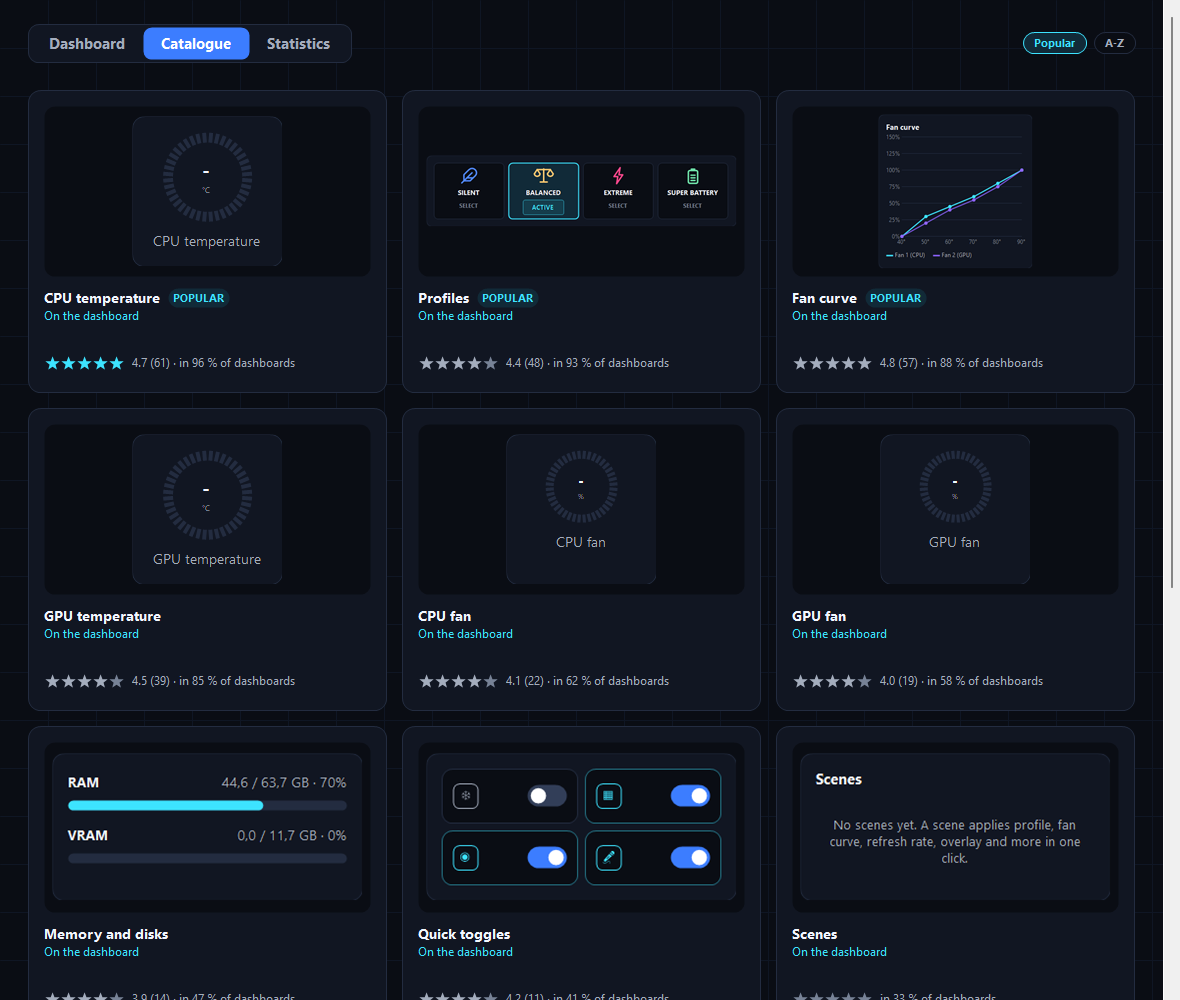
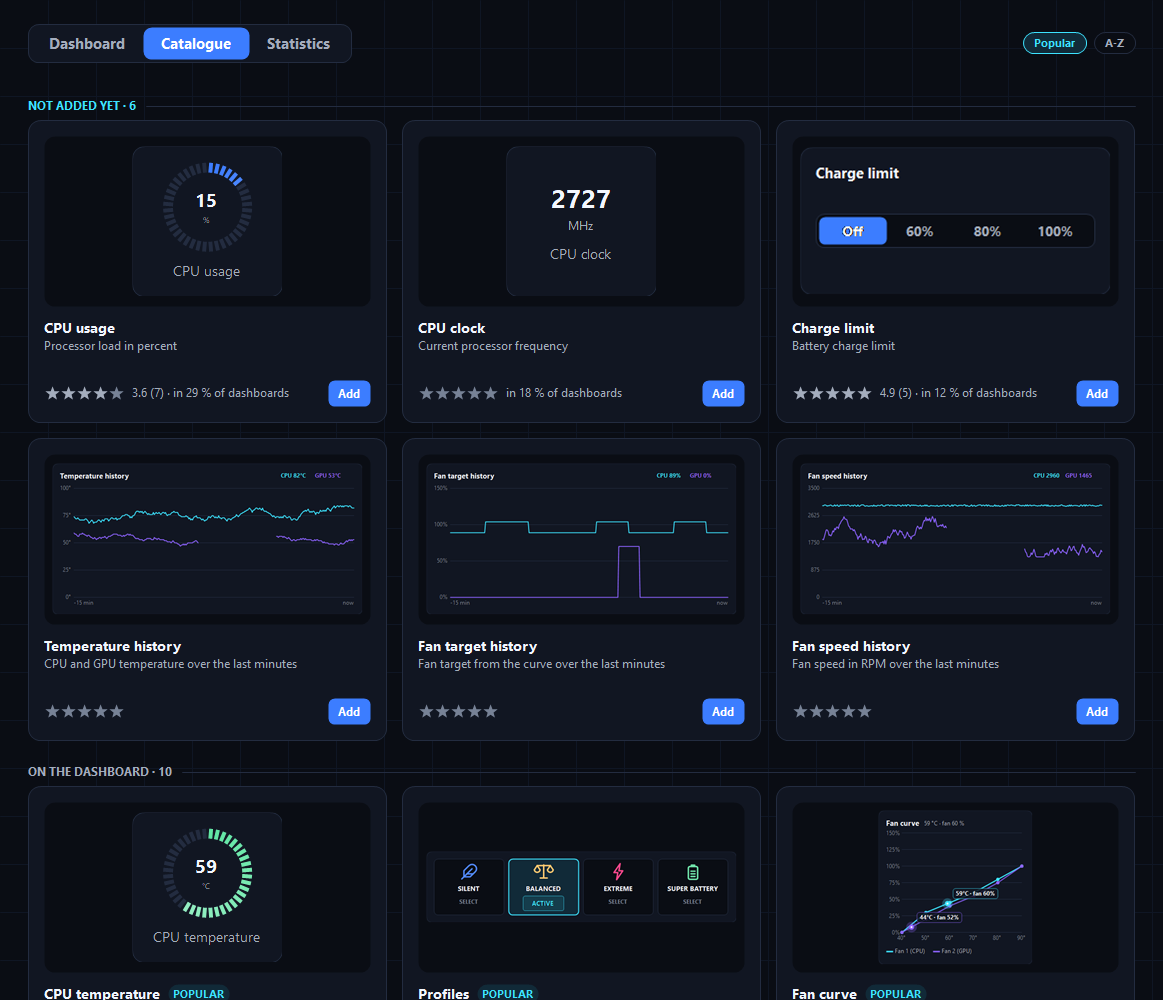
Docs for 1.45: widget settings, copies, looks, history widgets, layouts and files, the catalogue
- CHANGELOG [Unreleased]: Added and Changed for the Dashboard's second stage.
- README: the Dashboard bullet, the comparison row, six new screenshots.
- TECHNICAL: §88 (settings in the layout, the settings card, the table of widgets and keys, copies, bounds, layouts and files, history widgets, the catalogue's groups, memory, refresh and columns, a settings file that cannot be written, how it is tested); §86 points at it.
- RENDERING §13: the band of the static layer, the canvas's own frame, the reading at the cursor, the new preview modes.
- FAQ: three entries (settings and copies, layouts and files, history widgets).
- announcements.json: the 1.45.0 entry in 15 languages, for versions up to 1.44.0.
- docs/images: thirteen pictures from the preview tool, in English.

diff --git a/docs/TECHNICAL.md b/docs/TECHNICAL.md
@@ -4470,11 +4470,11 @@ curve page's In action view with the diagnostics open (`MainForm.ShowFanCurveDia
 `FanCurvePage.ShowDiagnostics`). The user-facing write-up with pictures is
 `docs/TWO-FAN-TABLES.md`.
 
-## 86. The Dashboard: one drawn surface, widgets and the layout file (v1.44)
+## 86. The Dashboard: one drawn surface, widgets and the layout file (v1.44; 1.45 adds §88)
 
 The Dashboard tab is the user's own screen: a grid of widgets (profiles, temperature and fan rings,
-CPU usage and clock, the fan curve, scenes, quick toggles, memory and disks, the charge limit, and
-the Community tile) that the user places, resizes and reorders. It follows the rule from §73 and
+CPU usage and clock, the fan curve, scenes, quick toggles, memory and disks, the charge limit, three
+history charts since 1.45, and the Community tile) that the user places, resizes and reorders. It follows the rule from §73 and
 §74: the whole tab is **one control** (`UI/Dash/DashCanvas.cs`), everything on it is painted, and
 clicks are resolved against a list of zones. There are no child controls, so a layout of twelve
 widgets costs one window, not a few hundred.
@@ -4492,19 +4492,21 @@ type can also hide itself from the catalogue (`Listed`): the Community tile is l
 statistics are on.
 
 **The layout file** is the `Dashboard` list in settings.json, one entry per widget: `Type`, `W`
-and `H` in cells, in display order, plus `DashboardVersion` (0 means a file from before the tab;
+and `H` in cells (and since 1.45 the widget's own settings, `Opt`, §88), in display order, plus `DashboardVersion` (0 means a file from before the tab;
 the default layout is written in its place). Positions are never stored: `DashLayout.Place` lays
 the items out first-fit, row by row, for the column count of the moment, so the same file reads
 correctly on a narrow window and a wide one. The column count comes from the width (cells of at
-least 150 px, two to six columns) unless the user chose a density in edit mode: `DashColumns` 4,
-5, 6 or 8 applies while a cell keeps 110 px, and a narrower window still gives fewer columns. With
+least 150 px, two to six columns) unless a density is set in edit mode: `DashColumns` 4,
+5, 6 or 8 applies while a cell keeps 110 px, and a narrower window still gives fewer columns (a
+new installation of 1.45 starts at 8, an existing one keeps its choice, §88). With
 the catalogue panel open the grid gives up the panel's width.
 
 **Edit mode** (the header button) frames every widget: drag by the card to reorder (the list is
 reordered in place and saved on drop), the size pill cycles through the type's sizes, the cross
 removes, the panel on the right adds, *Restore default* asks first, and the *Columns* row picks
-the density. Outside edit mode a tile shows a ⋯ while the cursor is on it, with a small menu:
-details and rating, the next size, remove, edit the layout. The header also switches between
+the density (1.45 adds *Layouts…* and the refresh interval, §88). Outside edit mode a tile shows a
+⋯ while the cursor is on it, with a small menu: details and rating, the next size, remove, edit
+the layout, and since 1.45 the widget's settings and a duplicate. The header also switches between
 three views: **Dashboard**, **Catalogue** (every widget as a card with its picture, description,
 stars and an Add button; sorted Popular or A-Z when a summary is in) and **Statistics** (§87).
 
@@ -4517,14 +4519,15 @@ again clears a rating. With the statistics off a star opens a card that explains
 goes and offers to turn them on.
 
 **The tick** belongs to the page (`UI/DashboardPage.cs`): one shared sample every 1.5 s (the
-Status interval; one EC read per tick, the two pages are never visible at once), read on a worker
+Status interval; 3 or 5 s can be chosen since 1.45; one EC read per tick, the two pages are never
+visible at once), read on a worker
 and completed on the window thread; no tick while the page is hidden, and the static buffer is
 freed then. How the two layers are painted and measured is in RENDERING.md §13. The Dashboard is the
 first tab and the **start tab**; Settings → General makes Scenarios the start tab as before.
 
 The preview tool draws the tab without hardware (`DOC/tools/render-harness`, modes `page
-Dashboard`, `-14` for the edit bench, `DASHLAYOUT=`, `DASHDEMO=1`, `STATS=1`), and
-`tools/dpi-check.py` holds it to the scaling rules of §84.
+Dashboard`, `-14` for the edit bench, `-15` to `-17` since 1.45, `DASHLAYOUT=`, `DASHOPT<n>=`,
+`DASHDEMO=1`, `STATS=1`), and `tools/dpi-check.py` holds it to the scaling rules of §84.
 
 ## 87. Anonymous weekly statistics (v1.44)
 
@@ -4614,3 +4617,126 @@ the step.
 
 The server (a small PHP service and the owner's panel) lives in two private repositories; its
 public contract is this section: the report fields, the proof of work, and the signed summary.
+
+## 88. The Dashboard in 1.45: widget settings, copies, layouts and files, history widgets
+
+1.45 builds on §86 without changing its rules: one control, everything painted, a widget never
+reads hardware and writes only through the actions of `MainDeps`. What is new stands on one
+change: **a widget's settings belong to its place in the layout, not to its type.**
+
+**Settings in the layout.** A layout item (`Core/DashItem.cs`) has an optional map `Opt` next to
+`Type`, `W` and `H`: a key and a short text, a whole number, yes/no or a list of short texts. An
+item without the map looks exactly as in 1.44, and a value equal to its default is not stored.
+`Core/DashOptions.cs` is the only reader and it never trusts a value: a value of the wrong kind
+reads as the default, a number is clamped to its range, a text goes through one rule
+(`DashOptions.Clean`: no control characters, no halves of surrogate pairs, no characters that
+change the direction of text or carry no text at all, composed to NFC, cut at 64 UTF-16 units).
+The same rule runs where a text is typed, stored, written to a file and read back, so what is
+stored can always be written and read the same. A key this version does not know is carried
+along untouched. One widget keeps at most 24 settings and 2048 characters, a list at most 64
+entries; settings read from `settings.json` are cleaned value by value (`DashOptions.Sanitized`:
+what cannot be read or does not fit goes, the rest stays). Version 1.44 does not know `Opt` and
+carries it in the item's extension data, so going back to the older exe keeps the settings.
+
+**The settings card.** A widget declares what can be set on it as a list of `DashOptionDef`
+(`UI/Dash/DashOptionDef.cs`): a colour (the default or one of a palette of twelve, stored by name,
+so it follows the light and the dark theme), one of a few, a text, a number with a range, a
+switch, a list to tick, and a colour that belongs to another field (a label's colour, a
+threshold's colour) as a small button with the same palette in a drop-down. `Forms/WidgetSettingsCard.cs`
+draws the card from that list, so a widget type needs no card of its own. The picture on the card
+is the widget itself, painted by the same code as on the Dashboard with the settings being
+edited; the Dashboard gets them on Save, in one repaint (a widget instance keeps its settings
+for life, so changed settings are a new instance). *Defaults* removes the card's settings. An
+empty text or number field means the default, shown in grey. The card never stores something
+other than it shows: a pick of a list that does not fit what one widget keeps (by the number of
+entries or by the room of its settings) stays in the card, which says so and neither saves nor
+exports until it fits (`Storable`, `SettleOver`). A list with more lines than the screen has
+room for goes on pages; a card still taller than the working area is drawn smaller
+(`GhostCardForm`, down to 0.55 of its scale) and is kept inside the screen when its size changes.
+
+| Widget | Settings (keys in `Opt`) | Sizes |
+|---|---|---|
+| CPU / GPU temperature | `color`, `dial` (`seg`, `arc`), `label`, `labelc`, two thresholds `warn1` / `warn2` with `warn1c` / `warn2c` (70 °C amber, 85 °C red unless set), `nowarn`, the scale `min` / `max` | 1x1, 2x2 |
+| CPU / GPU fan | `color`, `dial`, `label`, `labelc`, the RPM line `rpm` and `rpmc` | 1x1, 2x2 |
+| CPU usage | `color`, `dial`, `label`, `labelc`, one threshold `warn1` / `warn1c` (90 % red unless set), `nowarn` | 1x1, 2x2 |
+| CPU clock | `unit` (`mhz`, `ghz`), `color`, `label`, `labelc` | 1x1, 2x1 |
+| Profiles | `show` (which profiles) | one profile 1x1, 2x1; two 2x1, 2x2; more 4x1, 2x2 |
+| Quick toggles | `show`, `color` | 2x1, 4x1; one switch 1x1, 2x1 |
+| Scenes | `show` (scene ids), `view` (`list`, `tiles`, `buttons`), `label`, `labelc` | 2x1, 2x2, 1x1; tiles and buttons also 4x1 |
+| Memory and disks | `show`, `color` | 2x1, 2x2; one row 1x1, 2x1 |
+| Fan curve | `cpu`, `gpu`, `cpuc`, `gpuc`, `trail`, `trailc`, `label`, `labelc` | 2x2, 4x2 |
+| Charge limit | `view` (`seg`, `bat`, `small`), `color`, `barc`, `limc`, `label`, `labelc` | 2x1; `small` 1x1 |
+| Temperature / fan target / fan speed history | `range` (`5`, `15`, `30`, `60` minutes), `cpu`, `gpu`, `cpuc`, `gpuc`, `label`, `labelc` | 4x2, 2x2 |
+| Community | none | 4x1, 4x2 |
+
+**Sizes follow settings.** The sizes a widget allows can depend on its settings (Profiles with
+one profile fits a cell, with four it needs four). When settings change so that the current size
+is no longer allowed, the widget takes the nearest allowed one (`DashItem.Fit`), also when a
+layout is read.
+
+**Copies.** A type may stand any number of times. The canvas makes one instance per layout item,
+so copies share no state; the tile menu has *Duplicate* (the same settings and size, right after
+the original) and the catalogue adds one more of a type that is already there. The fan curve's
+tables are read once per page for all its copies. The weekly report names a type once (§87).
+
+**Bounds.** They guard against a damaged or hostile file, they are not limits a user meets: at
+most 200 widgets, and at most 480 grid cells covered by all widgets together, counted on the
+sizes the widgets really take (`DashRegistry.FittedCells`). A layout from a file over either
+bound is refused; a hand-edited `settings.json` is trimmed from the end; adding, duplicating,
+enlarging and a change of settings that needs a larger size are refused on a full Dashboard.
+
+**Layouts and files.** *Layouts…* in edit mode (`Forms/DashLayoutsCard.cs`) keeps the layout of
+the moment under a name (`DashboardSaved` in settings.json, up to twelve), loads one, deletes
+one, writes the layout to a file and reads one; the layout a load replaced stays for one *Undo*.
+A widget's settings card writes that widget's style to a file and loads one into the card, for a
+widget of the same type. Both use one format (`Core/DashFile.cs`), described for users and for
+anyone who writes such files in [DASHBOARD-FILES.md](DASHBOARD-FILES.md): data only, read whole
+or not at all, every item rebuilt from checked values, nothing in it a path, a command or code.
+A file is written through a temporary file next to the target and a swap. Export names are the
+same in every language (`ghostdeck-dashboard_2026-11-11_14-05-09.json`,
+`ghostdeck-widget-cpu-temp_...json`).
+
+**History widgets.** `UI/Dash/Widgets/HistoryWidget.cs` is one class in three kinds
+(`core.histTemps`, `core.histFans`, `core.histRpm`): the charts of Status → History as widgets.
+They draw from `HwHistory`, the in-memory ring the tray poll fills every three seconds for as
+long as the app runs (sixty minutes, never on disk), so a widget reads no hardware and adds no
+read to any tick. `HwHistory.Version` goes up under the buffer's lock together with the sample,
+and a widget takes the samples and their version from one look (`Window(span, out version)`),
+so it repaints exactly when there is a sample it has not drawn. A reading that is missing (a
+sleeping graphics card), a pause in the samples and time running back are gaps in the line; a
+sample later than now is left out. With the cursor over the plot the widget shows the nearest
+sample: a dashed line, a dot on each line and a bubble with the time and the values. That is a
+part of the widget contract new in 1.45: `IDashWidget.FollowsPointer` and `PaintPointer`; the
+canvas repaints such a widget as the cursor moves in it and calls `PaintPointer` after the live
+layer, never in edit mode.
+
+**The catalogue's two groups.** The side panel and the Catalogue view list the types that are not
+on the Dashboard first, under a caption with their number, then the ones already there (a badge
+with a tick and the number of copies, an outlined Add button). The groups are settled when the
+catalogue opens, when the sort changes and when a whole layout is replaced, and they do not
+change on Add: a row that jumped to the other group would put another type under the cursor.
+
+**Memory and painting.** In 1.44 the static layer was a picture of the whole canvas, and the
+canvas is as tall as its content. Since 1.45 the canvas keeps pictures sized by the window, not
+by the layout: the static layer for a band around the visible part, and one frame it composes
+every paint in (RENDERING.md §13). A mouse message carries 16 bits of position, so on a canvas
+taller than 32 767 px the position is restored from the message and the place of the visible part
+(`DashCanvas.Unwrap`).
+
+**Refresh and columns.** `DashRefreshMs` is 1500, 3000 or 5000 (edit mode), the interval of the
+page's tick. `DashColumns` is 8 on a new installation; a settings file that states the field
+keeps what it says (0 = automatic), and a full copy of the settings that does not state it (from
+before 1.44) leaves the choice alone when imported (`DashColumnsStated`).
+
+**A settings file that cannot be written.** `AppSettings.Save` raises `SaveFailed` with the
+system's reason once per run of failures, counted from the moment a listener heard it: the app
+saves while it starts, before it can show a card, and such a failure is kept and announced when
+the tray asks (`TellPendingSaveFailure`). The tray shows a card; an announcement that arrives
+after a save worked is dropped (`SaveFailing`), and nothing is shown once the app is closing.
+
+**How it is tested.** Outside the app: `DOC/tools/dashfile-test` (the file reader and the
+settings against hostile and broken input, 592 checks and 300 000 randomly damaged files, none of
+which may throw or break a limit). On the real canvas, in the preview tool: `-15` (every settings
+card), `-16` (layouts, files, bounds, cards on low screens, the history widgets, the catalogue),
+`-17` (the band, the frame and the mouse on a tall canvas); the default layout is compared pixel
+for pixel with 1.44.

diff --git a/README.md b/README.md
@@ -32,7 +32,7 @@ Built because **MSI Center 2.0 removed the _Silent_ profile**. This app talks to
 ## Features
 
 - 🖥 Tray icon (color = active profile) with a profile menu, plus a **tabbed main window** (Dashboard / Scenarios / Status / Fan curve / Models / Report / Updates) with a **light / dark theme**; Settings is organized into **icon sub-tabs** (a Start page with tiles + General / Power / Automation / Gaming / Hotkeys / System) and reopens on the sub-tab you used last (or always on Start, your choice). On a narrow window the sub-tab strip shrinks to icons instead of pushing a scrollbar, and clicking the tab you are already on takes you back to its first page
-- 🧩 **Dashboard** - your own screen built from widgets on a grid: profile tiles, CPU and GPU temperature rings, fan rings with RPM, CPU usage and clock, the **fan curve with its live operating point and the last minutes as a trail**, scenes, quick toggles with the Scenarios icons, memory and disks, the charge limit, and a Community tile. **Edit layout** lets you drag, resize and remove widgets, add from a panel and pick the grid density (Auto, 4, 5, 6 or 8 columns); a ⋯ on every tile opens its details, size and removal. The layout is stored as order and sizes only, so it reflows on any window width, and a widget a newer version added stays in place as a grey card on an older one. The tab is **one painted surface** with no child windows and a 1.5 s tick that repaints only what moved, so a dozen widgets cost what one page costs. The header switches between **Dashboard**, a **Catalogue** of every widget (picture, description, rating, Add) and **Statistics**. The Dashboard is the first tab and the one GhostDeck opens on; Settings → General brings Scenarios back as the start tab
+- 🧩 **Dashboard** - your own screen built from widgets on a grid: profile tiles, CPU and GPU temperature rings, fan rings with RPM, CPU usage and clock, the **fan curve with its live operating point and the last minutes as a trail**, scenes, quick toggles with the Scenarios icons, memory and disks, the charge limit, **history charts** of temperatures, fan target and fan speed over the last 5 to 60 minutes (the cursor shows the moment and the values), and a Community tile. **Every widget has its own settings** (⋯ → *Settings…*, with a live picture): colours from a palette of twelve, a label, a segmented or continuous dial, the scale and the warning thresholds of a ring, which lines a chart draws, which profiles, switches, scenes or disks a widget shows, and a choice of looks for Scenes (list, tiles, buttons) and the Charge limit (segments, battery bar, a single cell). **The same widget can stand any number of times**, each copy with its own settings, so a Silent button, a large CPU dial in orange and a small one in teal are three tiles of your making. **Edit layout** lets you drag, resize and remove widgets, add from a panel that lists what you have not added yet first, pick the grid density (Auto, 4, 5, 6 or 8 columns) and how often the tab refreshes (1.5, 3 or 5 s); **Layouts…** keeps layouts under names and writes a layout, or one widget's style, to a file you can share: data only, checked whole before anything changes ([DASHBOARD-FILES.md](docs/DASHBOARD-FILES.md)). A ⋯ on every tile opens its settings, details, size, a duplicate and removal. The layout is stored as order and sizes only, so it reflows on any window width, and a widget a newer version added stays in place as a grey card on an older one. The tab is **one painted surface** with no child windows and a 1.5 s tick that repaints only what moved, so a dozen widgets cost what one page costs. The header switches between **Dashboard**, a **Catalogue** of every widget (picture, description, rating, Add) and **Statistics**. The Dashboard is the first tab and the one GhostDeck opens on; Settings → General brings Scenarios back as the start tab
 - 📈 **Community statistics** *(opt-in, anonymous)* - see what other GhostDeck users do: which widgets are popular and how they are rated (in the catalogue and on each widget's card), a **Statistics view** with active installs week by week, a **dot map of the world**, languages and laptop models, and a Community tile on the Dashboard. In return the app sends **one small report a week**: app version, language, board family, Windows version, screen scale, the features you use, your Dashboard widgets and ratings, profile switches and the time share per profile, CPU and GPU model - **no identifier, no address, no names, no file or game names**. A card asks once and shows the exact report before you decide; the switch and *Show what will be sent* are in Settings → System. The results come back as a **signed file** the app verifies before showing a number; countries with only a few installs are never shown ([TECHNICAL.md §87](docs/TECHNICAL.md), [FAQ](docs/FAQ.md))
 - ⚡ **Apex switch** *(boards whose entry records a fourth performance value)* - the state above Extreme's normal turbo, the one some MSI Center versions bury as a switch inside their top scenario: a toggle on the Extreme tile makes Extreme write the Apex value instead, with an APEX badge on the tile and in the OSD while it is on. Whether it buys real performance is measured, not promised: on a Raider 16 Max HX the Power test clocked **+34 % more delivered work than Balanced** with Apex, against +16 % for plain Extreme - on other boards it may only spin the fans faster, and the Power test measures Apex as its own step so you can check yours. A one-time consent card explains the noise and heat cost, the switch is remembered per model, and a **panic reset always returns to plain Balanced**
 - 🪟 **Windows power: CPU turbo boost + power mode** - two settings Windows keeps to itself, brought next to the profiles they belong with (Settings → Power). The **CPU turbo boost** switch edits the normally hidden *Processor performance boost mode* of the active power plan - a cooler, quieter machine under load at the cost of peak speed; the previous plugged-in and battery values are saved per plan, shown in the card and come back with one click. **Two lists pick the exact turbo mode** Windows offers (Enabled, Aggressive, Efficient Enabled and the rest), plugged in and on battery separately, each with a plain description of what it does, and the **By profile** table can set them per GhostDeck profile ([guide](docs/WINDOWS-POWER.md)). The **Windows power mode** (best efficiency / balanced / best performance) is set directly or left on **Auto: profile**, which follows the GhostDeck profile through a mapping you can edit. **Restore Windows settings** puts back everything the app changed and lists exactly what. Documented Windows power APIs only, no EC involved - so it works on **any** laptop, including ones whose EC the app cannot reach; CLI `--turbo on|off|status`
@@ -112,7 +112,7 @@ GhostDeck is a small, focused tool - it deliberately does one thing (power/fan p
 | Two-table test (which fan-curve table the firmware follows) | ❌ | ✅ *(six flat pairs into both tables, verdict per fan)* |
 | Global **rebindable** hotkeys | Limited² | ✅ |
 | Scenes (one-click multi-setting macros) | ❌ | ✅ *(profile + curve + Hz + overlay + more)* |
-| Dashboard of widgets you arrange yourself | ✅ *(fixed layout)* | ✅ *(drag, resize, add from a catalogue, grid density; one painted surface)* |
+| Dashboard of widgets you arrange yourself | ✅ *(fixed layout)* | ✅ *(drag, resize, add from a catalogue, grid density; settings, colours and looks per widget, copies, history charts, named layouts and files to share; one painted surface)* |
 | What other users run (popular widgets, ratings, a world map) | ❌ | ✅ *(opt-in, anonymous, signed results)* |
 | Tray-icon wheel / middle-click actions | ❌ | ✅ *(configurable)* |
 | CPU / GPU temperature in the notification area | ❌ | ✅ *(opt-in, own thresholds + colours)* |
@@ -203,11 +203,17 @@ External monitors and HDR were not tested (the message carries no monitor parame
 | ![Scenes](docs/images/scenes.png) | ![Schedule rule](docs/images/schedule_rule.png) |
 | **Scenes** - every setting the scene touches as a chip; the profile pill wears that profile's color | **Scene schedule** - a rule is a scene + weekdays + a time window (overnight ranges fine) |
 | ![Dashboard](docs/images/dashboard.png) | ![Dashboard edit mode](docs/images/dashboard_edit.png) |
-| **Dashboard** - your own grid of widgets: profiles, rings, the live fan curve, scenes, toggles, memory, the Community tile | **Edit layout** - drag, resize, remove, add from the panel, pick the grid density |
+| **Dashboard** - your own grid of widgets: profiles, rings, the live fan curve, scenes, toggles, memory, the Community tile | **Edit layout** - drag, resize, remove, pick the grid density and the refresh interval, open the layouts and the *Add widget* panel |
 | ![Catalogue](docs/images/dashboard_catalog.png) | ![Statistics](docs/images/dashboard_stats.png) |
 | **Catalogue** - every widget with its picture, description, rating and share of dashboards (sample numbers) | **Statistics** - what the community uses: installs week by week, a dot map of the world, languages and laptop models (sample numbers) |
 | ![Widget card](docs/images/dashboard_widget_card.png) | ![Statistics consent](docs/images/stats_consent.png) |
 | **Widget card** - the widget painted live, your stars and the community's numbers; two clicks from any tile | **Anonymous statistics** - the consent card: what is sent, what never is, what comes back; the exact report is one click away |
+| ![A Dashboard of your own](docs/images/dashboard_custom.png) | ![Widget settings](docs/images/dashboard_widget_settings.png) |
+| **A Dashboard of your own** - copies of a widget with different settings: two profiles in one tile and one alone, dials in your colours, the charge limit as a battery bar and as a single cell, one switch as a tile | **Widget settings** - the picture follows every change; colours, the dial, the label, the scale and the warning thresholds of a temperature ring; a style can be written to a file and loaded |
+| ![History widgets](docs/images/dashboard_history.png) | ![The reading at the cursor](docs/images/dashboard_history_pointer.png) |
+| **History widgets** - temperatures, fan target and fan speed over the last 5 to 60 minutes, wide or square, your lines and colours | **The reading at the cursor** - the moment and the values, as on the Status charts; a sleeping graphics card is a gap in the line |
+| ![Scenes in three looks](docs/images/dashboard_scenes_looks.png) | ![Layouts](docs/images/dashboard_layouts.png) |
+| **Scenes in three looks** - the list, tiles and buttons, in any size, with all scenes or the ones you pick | **Layouts** - keep the Dashboard under a name, load it back, write it to a file or read one; one Undo after a load |
 | ![Scene editor](docs/images/scene_editor.png) | ![Settings General](docs/images/settings_general.png) |
 | **Scene editor** - switch on only the settings a scene should apply (brightness, HDR, the crosshair with one of your presets, an MSI True Color profile, Windows-key lock and touchpad included); everything else stays as it is | **Settings → General** - pick which bricks and sections the Scenarios tab shows; the gear on Scenarios jumps here and highlights this card |
 | ![Status](docs/images/status.png) | ![Settings](docs/images/settings.png) |

diff --git a/CHANGELOG.md b/CHANGELOG.md
@@ -4,7 +4,57 @@ All notable changes to this project are documented here.
 Format loosely based on [Keep a Changelog](https://keepachangelog.com/).
 
 ## [Unreleased]
+### Added
+- **Dashboard: every widget has its own settings.** *Settings…* in a tile's ⋯ menu opens a card with the widget's
+  picture, which follows every change at once; the Dashboard changes on Save. Rings: the dial's colour (twelve colours
+  or the default), a segmented or a continuous dial, a label and its colour, the scale of the temperature rings, the
+  thresholds at which a temperature or the CPU usage changes colour and the colour of each, the RPM line of the fan
+  rings. CPU clock: MHz or GHz. Fan curve: which lines, their colours, the trail of the last minutes and its colour.
+  Memory and disks: which rows, the colour of the bars. Every widget with a title can carry your own label. *Defaults*
+  puts a widget back as it comes ([TECHNICAL.md §88](docs/TECHNICAL.md)).
+- **Dashboard: the same widget as many times as you like.** *Duplicate* in the ⋯ menu, or *Add* in the catalogue for a
+  type that is already there; every copy has its own settings and size. Two CPU temperatures, one as a small dial and
+  one large in another colour, are two tiles like any other.
+- **Dashboard: widgets that show only what you pick.** Profiles, Quick toggles, Scenes and Memory and disks have a
+  *Show* list. A widget with one profile or one switch fits a single cell, so a Silent button, a Balanced button and a
+  Fan Boost switch can each be a tile of their own.
+- **Dashboard: three looks for Scenes and for the Charge limit.** Scenes: the list, tiles (a large icon, the name, the
+  profile as a coloured line) or compact buttons, and a wide 4x1 size. Charge limit: the segments, a battery bar with
+  the charge of the moment and a mark at the limit, or a single cell that steps to the next value on a click.
+- **Dashboard: three history widgets.** *Temperature history*, *Fan target history* and *Fan speed history* are the
+  charts of Status → History as widgets: the last 5, 15, 30 or 60 minutes, a line for the CPU and one for the GPU, each
+  with its colour, in a wide (4x2) or a square (2x2) size. The cursor over a chart shows the moment and the values, as
+  on the Status tab. They draw from the history GhostDeck already keeps in memory, so they add no hardware read; the
+  history starts empty at every launch and is never written to disk.
+- **Dashboard: layouts with names, and files to share.** *Layouts…* in edit mode keeps the layout of the moment under
+  a name (up to twelve), loads one from the list, writes the layout to a file and reads one; *Undo the load* brings back
+  the layout a load replaced. A widget's settings card writes that widget's style to a file and loads one. A file holds data only (widget
+  types, sizes, settings); it is checked whole before anything changes, and a file that fails any check changes nothing
+  ([DASHBOARD-FILES.md](docs/DASHBOARD-FILES.md)).
+- **Dashboard: how often it refreshes.** 1.5, 3 or 5 seconds, in edit mode. Slower means fewer reads of the controller
+  while the tab is open (40, 20 or 12 a minute).
+
 ### Changed
+- **Dashboard catalogue: what is not on the Dashboard comes first.** The *Add widget* panel and the Catalogue view
+  list the widgets you have not added yet under their own caption, then the ones already there. A widget on the
+  Dashboard carries a badge with a tick and the number of copies, and its *Add* button is an outline; the filled
+  buttons are the ones still to add. The frame of a row under the cursor stands clear of its texts.
+- **Dashboard: 8 columns on a new installation.** The *Columns* switch in edit mode starts at 8. An existing
+  installation keeps what it has, Auto included.
+- **Dashboard: the CPU usage ring turns red from 90 %.** Like the temperature rings change colour as they heat up. The
+  threshold and its colour are in the widget's settings, and *No warnings* switches it off.
+- **Dashboard: long scene names.** A name too long for one line takes a second, whole line in every look of the Scenes
+  widget; one that needs more than two ends with three dots. In the list the second line used to be cut by the row
+  below.
+- **Dashboard: memory does not grow with the layout.** The tab keeps pictures only of the part the window shows, so a
+  Dashboard of two hundred widgets costs the same memory as one that fits the screen.
+- **A settings file that cannot be written is said.** When Windows refuses to write `settings.json` (a full disk, a
+  locked file), a card says so with the system's reason, once until a save works again. Before, a change made in that
+  state worked until the app closed and was gone at the next start, with a line in the log as the only trace.
+- **A card taller than the screen is drawn smaller.** On a low screen at a large scale a card with many fields no
+  longer reaches under the taskbar; long lists inside a card go on pages.
+- **Statistics: a widget type counts once.** With copies allowed, the weekly report names each widget type once,
+  whatever the number of copies, and carries none of a widget's settings ([TECHNICAL.md §87](docs/TECHNICAL.md)).
 - **Statistics view: a Refresh button and fresher numbers.** The view now asks for the signed summary when its copy is ten
   minutes old (it was an hour), and a **Refresh** button in the header asks at once. Next to it the view says when the
   numbers at hand were generated and when you last asked.

diff --git a/docs/RENDERING.md b/docs/RENDERING.md
@@ -677,11 +677,18 @@ Comments are never checked, and the long-dash rule has no exceptions. The check 
 proof: a fixed size passed through a variable is not caught, so the preview at 192 stays part of
 the review.
 
-## 13. The Dashboard canvas: a static layer, a live layer and one tick (v1.44)
+## 13. The Dashboard canvas: a static layer, a live layer and one tick (v1.44, the buffers of v1.45)
 
 The Dashboard tab (TECHNICAL.md §86) is one control, `DashCanvas`, painted in two layers.
 
-**The static layer** is a `BufferedGraphics` the size of the control, rendered again only when its
+**The static layer** is a `BufferedGraphics` for a **band** of the canvas since 1.45: what is on
+screen and half of that again above and below, at most twice the visible height (in 1.44 it was
+the size of the whole control, and the control is as tall as its content, so the picture grew with
+the layout: two hundred 2x2 widgets were about 300 MB). Scrolling out of the band renders the next
+one, with only the widgets that stand in it; a layout no taller than a screen and a half has one
+band and never renders on scroll. GDI+ drawing is moved into the band with a transform and GDI
+text with the viewport origin, so a widget paints at its canvas coordinates wherever the band is.
+The layer is rendered again only when its
 key changes: the size, the DPI, the theme, the background-grid setting, the language, the layout,
 edit mode, the view, and (with the catalogue open) whether the statistics are on and which
 summary is in. It holds the background, the header, every widget's `PaintStatic` (the card, a
@@ -693,10 +700,18 @@ resolved against that list, so there is no second geometry to keep in step.
 every widget whose rectangle meets the clip, the edit-mode frames and pills, the hover feedback
 and the ⋯ of the tile under the cursor. A tick (the page's 1.5 s timer, one sample read on a
 worker) asks every widget `LiveChanged`; only the rectangles that answer yes are invalidated, so
-an idle machine repaints nothing and a ring whose value moved repaints its own card. The control
-runs with `OptimizedDoubleBuffer`, so the blit and the live layer are composed off screen and
-presented once; a tick never shows the dials without their needles. When the page is hidden the
-timer stops and the static buffer is freed.
+an idle machine repaints nothing and a ring whose value moved repaints its own card. The blit and
+the live layer are composed off screen and presented once, so a tick never shows the dials without
+their needles. Since 1.45 the canvas does that in a frame of its own, as wide as the canvas and
+as tall as the visible part, and copies it to the screen in one blit (a paint taller than the
+frame goes in slices): WinForms' `OptimizedDoubleBuffer` is off, because it allocates a buffer
+for the whole control at every paint, which on a tall canvas is the very picture the band avoids.
+The frame takes 4.4 MB at 100 % and 14.3 MB at 200 % whatever the height of the layout. When the
+page is hidden the timer stops and both buffers are freed.
+
+**The reading at the cursor (1.45).** A widget that says `FollowsPointer` (the history charts) is
+invalidated as the cursor moves in it and paints what it shows there in `PaintPointer`, after the
+live layer and before the tile's ⋯; never in edit mode.
 
 **The entrance of the Statistics view** uses the same split. For half a second after the view
 opens the static layer leaves out the bars, the four headline values, the ranked lists' bars and
@@ -717,6 +732,9 @@ its own filter closes it on the press inside a hosted control, so a row in it ne
 **Measuring.** The preview tool draws the tab at any DPI without hardware and has two benches:
 `page Dashboard 0 dark -13` times a static render, a tick with a fresh sample and a full repaint
 (16 passes, median), and `-14` drives the edit mode with simulated mouse messages (size, remove,
-drag, the panel, the columns row, the views) and saves each state as a PNG. `DASHDEMO=1` gives the
+drag, the panel, the columns row, the views) and saves each state as a PNG. Since 1.45: `-15`
+draws every widget's settings card, `-16` runs layouts, files, bounds and the cards on low screens
+against the real canvas, `-17` paints the same strips of a tall canvas from different band
+positions and through the screen path and compares them pixel for pixel. `DASHDEMO=1` gives the
 widgets live-looking values and a sample curve, `STATS=1` a sample weekly summary, `DASHLAYOUT=`
 a layout of your own.

diff --git a/docs/FAQ.md b/docs/FAQ.md
@@ -347,6 +347,49 @@ versions does not verify what it downloads.
 
 A side effect of running with administrator rights (see the UAC question above). GhostDeck runs elevated, and Windows isolates elevated windows from normal-privilege programs: keys you press while an elevated window has focus are invisible to the helpers that make screenshots happen (the Print Screen → Snipping Tool trigger, clipboard managers, capture hotkeys of other tools). Click the desktop, the taskbar or any other window first and the same key works again - or run your screenshot tool as administrator. The window itself is perfectly capturable; only the key press is being isolated.
 
+## Can I change how a Dashboard widget looks, or put the same widget there twice?
+
+Yes to both, since 1.45. Hover a tile, click the ⋯ in its corner and pick *Settings…*: a card
+shows the widget and follows every change before you save. What you can set depends on the
+widget: colours from a palette of twelve, your own label, a segmented or a continuous dial, the
+scale and the warning thresholds of a ring, which lines a chart draws, which profiles, switches,
+scenes or disks a widget shows, and a choice of looks for Scenes and for the Charge limit.
+*Defaults* puts the widget back as it comes.
+
+The same ⋯ menu has *Duplicate*, and the catalogue adds another one of a widget that is already
+there. Every copy has its own settings and size, so one widget can be a tile with only Silent in
+it and another a tile with only Balanced. There is no limit on copies that you will meet in
+practice.
+
+![Widget settings](images/dashboard_widget_settings.png)
+
+## Can I save my Dashboard layout, or share it? Is a layout file safe to open?
+
+*Edit layout* → *Layouts…* keeps the Dashboard of the moment under a name, loads one back, and
+writes a layout to a `.json` file or reads one. A widget's settings card does the same for the
+style of that one widget. After a load, *Undo the load* brings back the layout you had.
+
+A file holds data only: widget types, sizes and settings, your own labels among them. There is
+no code in it, no path and nothing about your computer. GhostDeck reads a file whole before it
+changes anything, and a file that fails any check (too large, a value of the wrong kind, a text
+with hidden characters, more widgets than a Dashboard holds) changes nothing at all. Scenes picked
+on another computer do not exist on yours, so such a widget shows all your scenes. The format is
+described in [DASHBOARD-FILES.md](DASHBOARD-FILES.md).
+
+## What are the history widgets? Do they make GhostDeck read the hardware more often?
+
+*Temperature history*, *Fan target history* and *Fan speed history* are the charts of Status →
+History as Dashboard widgets: the last 5, 15, 30 or 60 minutes, a line for the CPU and one for
+the GPU. Move the cursor over a chart for the moment and the values.
+
+They add no read. GhostDeck already keeps the last sixty minutes of these readings in memory
+while it runs (one sample every three seconds, for the History view), and the widgets draw from
+that. The history is never written to disk and starts empty at every launch, so a chart fills
+up as time passes. A gap in a line is a reading that was not there: a graphics card that slept, or
+the laptop itself.
+
+![History widgets](images/dashboard_history.png)
+
 ## What does GhostDeck send, and why? (anonymous statistics)
 
 Nothing, unless you turn it on. Since 1.44.0 the app can send **one small anonymous report a
